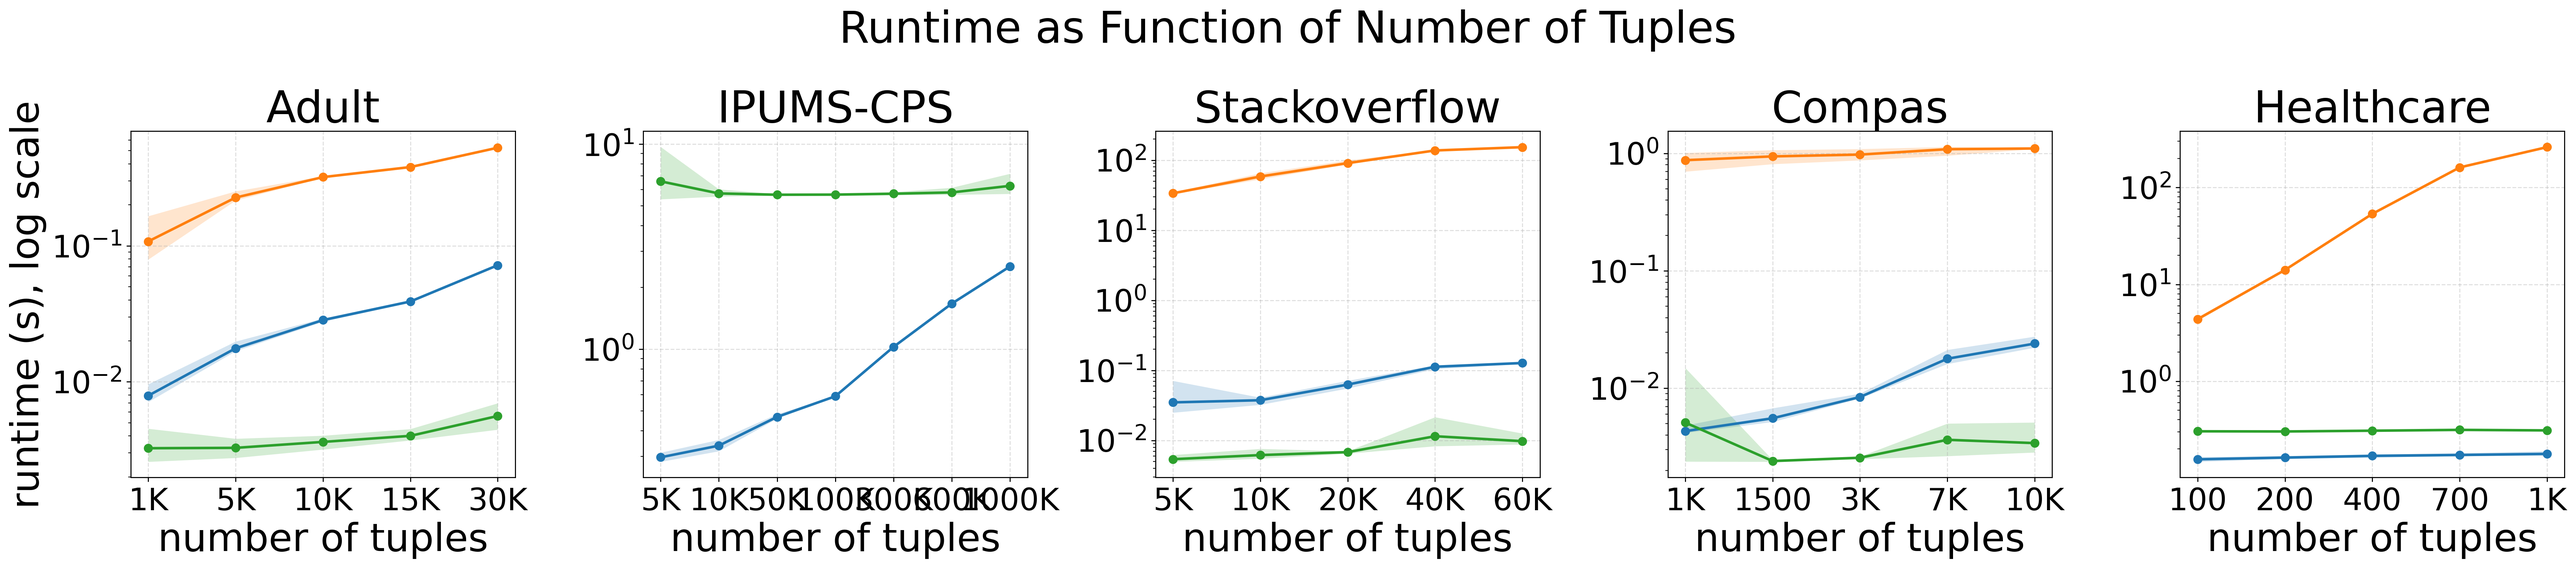
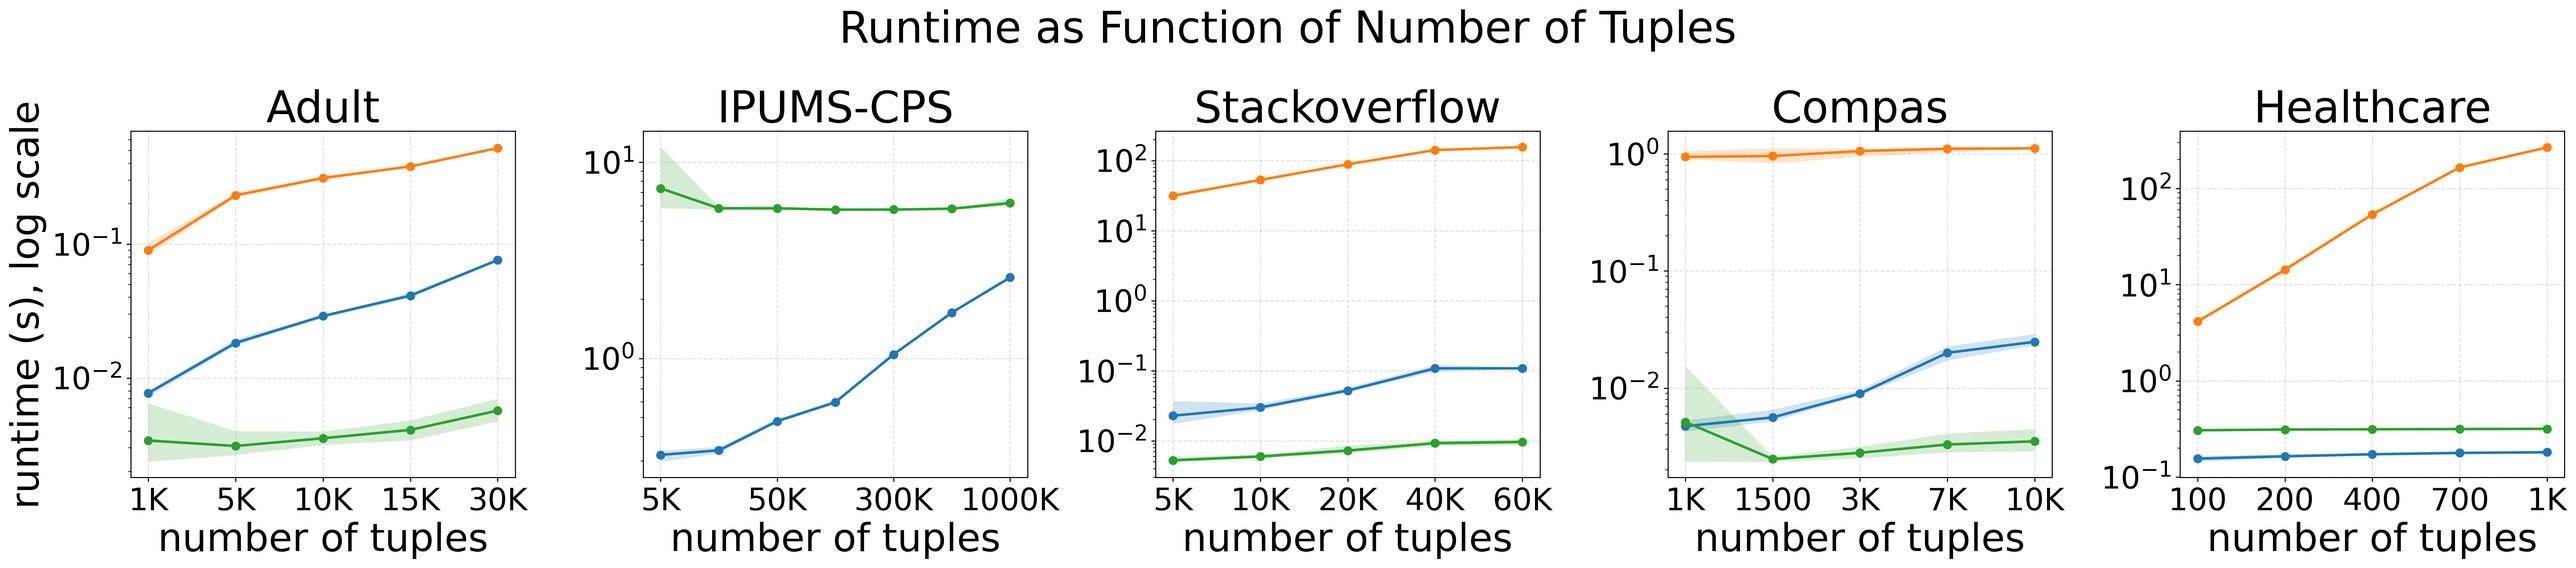
Redid some graphs

diff --git a/main.py b/main.py
@@ -366,7 +366,7 @@ def _encode_and_clean(data_path, cols):
     return df
 
 
-def plot_legend(outfile="plots/legend.png"):
+def plot_legend(outfile="plots/legend_proxies.png"):
     """Creating a standalone legend figure for Experiment 1 with the four measures arranged in a single horizontal row,
     and save it to `outfile`.
     """
@@ -504,8 +504,20 @@ def run_experiment_1(
             f"{num_tuples // 1000}K" if num_tuples % 1000 == 0 else str(num_tuples)
             for num_tuples in num_tupless
         ]
-        ax.set_xticks(xs)
-        ax.set_xticklabels(tick_labels)
+
+        # ↓↓↓ reduce xtick labels specifically for IPUMS-CPS ↓↓↓
+        if ds_name == "IPUMS-CPS":
+            # e.g. show only indices 0, 2, 4, 6 (for 7 points)
+            if len(num_tupless) >= 7:
+                show_idx = [0, 2, 4, 6]
+            else:
+                show_idx = list(range(len(num_tupless)))
+            ax.set_xticks(np.array(show_idx))
+            ax.set_xticklabels([tick_labels[i] for i in show_idx])
+        else:
+            ax.set_xticks(xs)
+            ax.set_xticklabels(tick_labels)
+        # ↑↑↑ end IPUMS-CPS special-casing ↑↑↑
 
         for measure_name, stats in results.items():
             means = np.array(stats["mean"])
@@ -1945,7 +1957,7 @@ if __name__ == "__main__":
     # run_experiment_1()
     # run_experiment_2()
     # run_experiment_3()
-    run_experiment_4()
+    # run_experiment_4()
     # run_experiment_5()
     # run_experiment_6()
     run_experiment_7_unconditional()
